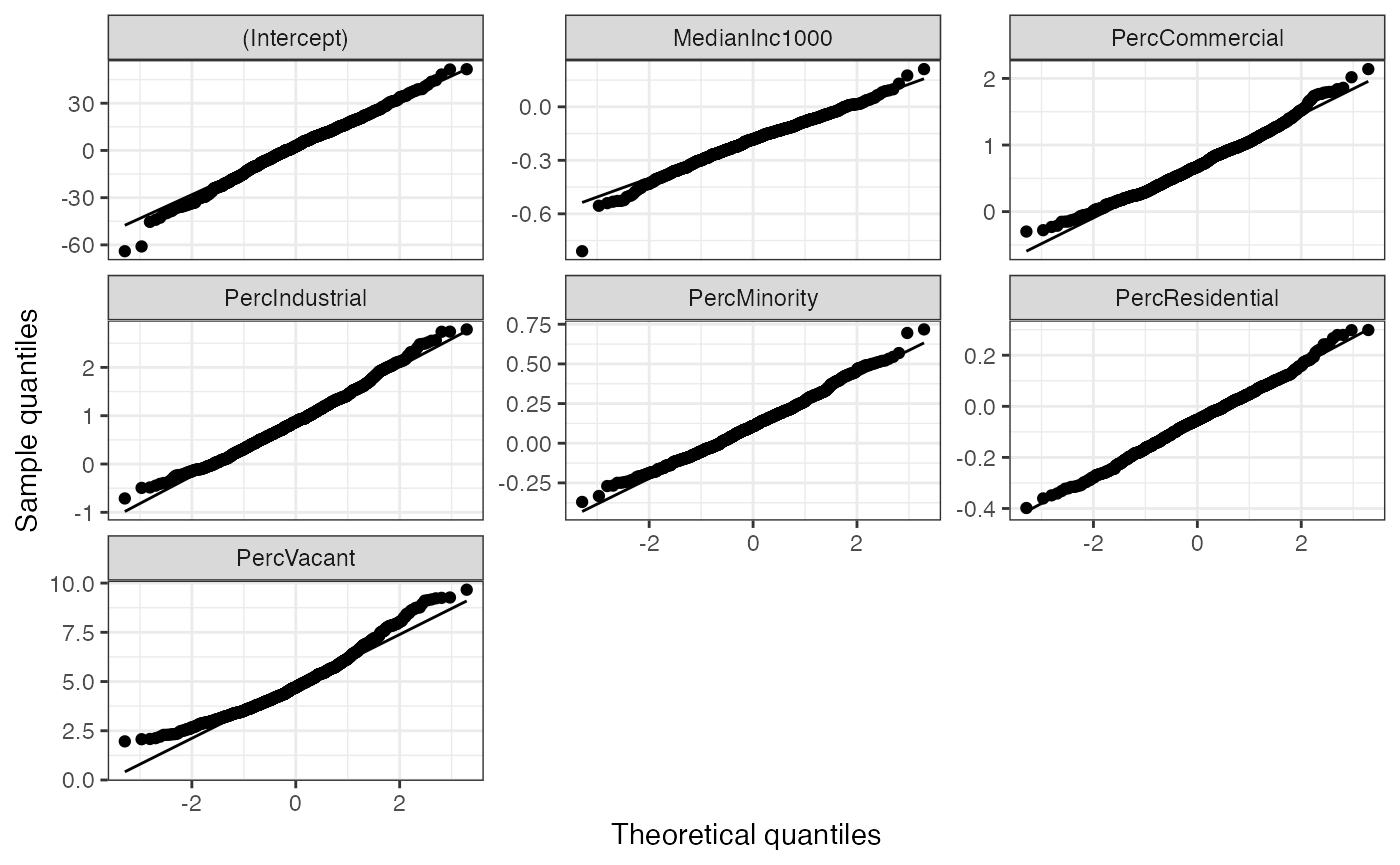
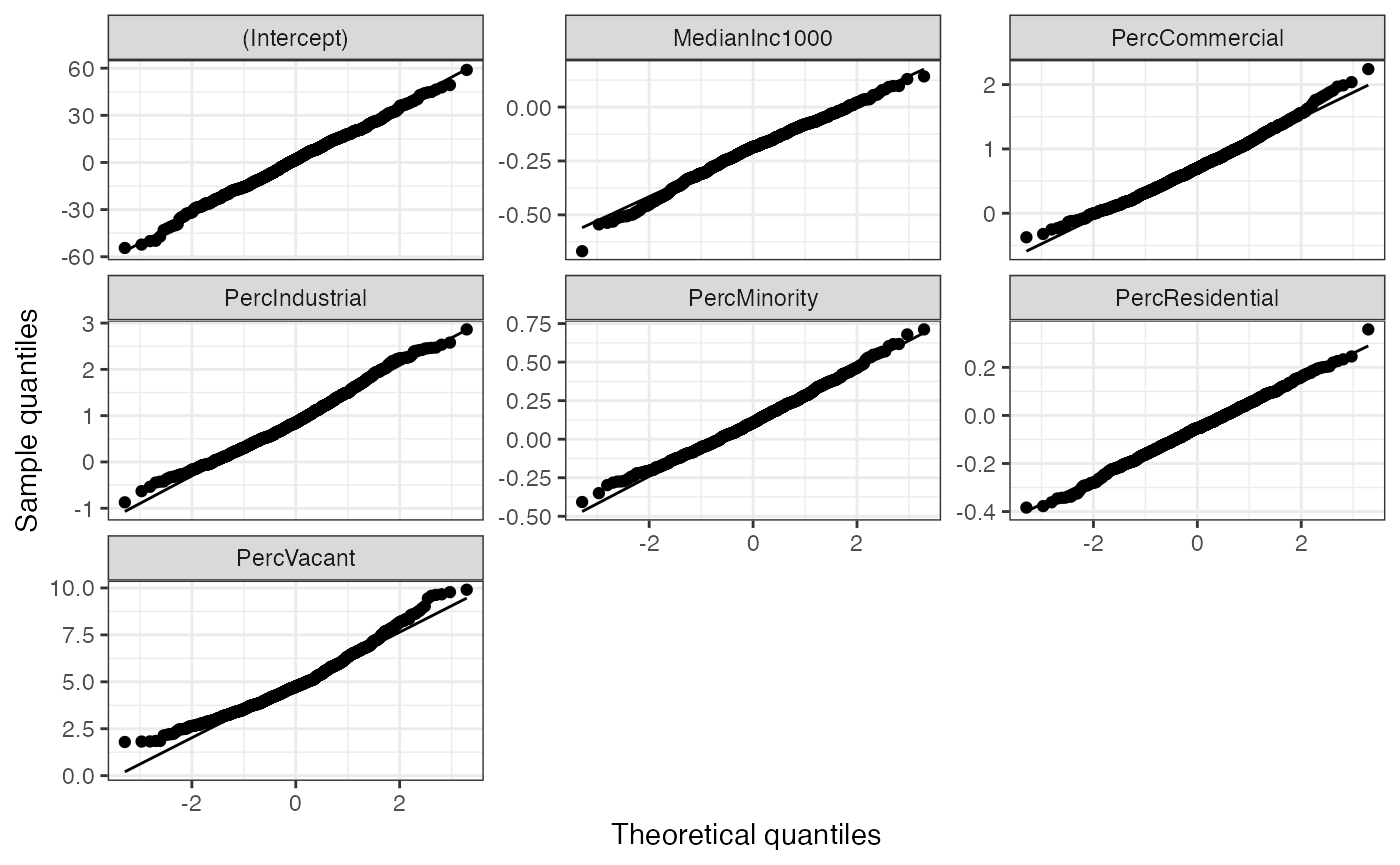
FT: #20 Include ggplot2 in our desc

diff --git a/docs/articles/se-la-county-data.html b/docs/articles/se-la-county-data.html
@@ -452,7 +452,7 @@ Term
 0.76
 </td>
 <td style="text-align:center;">
-16.23
+16.69
 </td>
 <td style="text-align:center;">
 0.05
@@ -472,10 +472,10 @@ MedianInc1000
 0.11
 </td>
 <td style="text-align:center;">
--1.63
+-1.59
 </td>
 <td style="text-align:center;">
-0.90
+0.89
 </td>
 </tr>
 <tr>
@@ -486,13 +486,13 @@ PercCommercial
 0.74
 </td>
 <td style="text-align:center;">
-0.38
+0.40
 </td>
 <td style="text-align:center;">
-1.95
+1.85
 </td>
 <td style="text-align:center;">
-0.95
+0.94
 </td>
 </tr>
 <tr>
@@ -503,13 +503,13 @@ PercIndustrial
 0.91
 </td>
 <td style="text-align:center;">
-0.57
+0.60
 </td>
 <td style="text-align:center;">
-1.58
+1.51
 </td>
 <td style="text-align:center;">
-0.88
+0.86
 </td>
 </tr>
 <tr>
@@ -520,13 +520,13 @@ PercMinority
 0.12
 </td>
 <td style="text-align:center;">
-0.16
+0.17
 </td>
 <td style="text-align:center;">
-0.77
+0.73
 </td>
 <td style="text-align:center;">
-0.55
+0.53
 </td>
 </tr>
 <tr>
@@ -540,10 +540,10 @@ PercResidential
 0.11
 </td>
 <td style="text-align:center;">
--0.46
+-0.47
 </td>
 <td style="text-align:center;">
-0.37
+0.36
 </td>
 </tr>
 <tr>
@@ -554,13 +554,13 @@ PercVacant
 4.63
 </td>
 <td style="text-align:center;">
-1.36
+1.38
 </td>
 <td style="text-align:center;">
-3.40
+3.35
 </td>
 <td style="text-align:center;">
-1.00
+0.99
 </td>
 </tr>
 </tbody>
@@ -573,15 +573,15 @@ PercVacant
   <span class="fu">tidyr</span><span class="fu">::</span><span class="fu"><a href="https://tidyr.tidyverse.org/reference/pivot_wider.html">pivot_wider</a></span><span class="op">(</span>names_from <span class="op">=</span> <span class="va">q</span>, values_from <span class="op">=</span> <span class="va">x</span><span class="op">)</span>
 <span class="co">#&gt; # A tibble: 7 x 3</span>
 <span class="co">#&gt; # Groups:   term [7]</span>
-<span class="co">#&gt;   term             `0.025` `0.975`</span>
-<span class="co">#&gt;   &lt;chr&gt;              &lt;dbl&gt;   &lt;dbl&gt;</span>
-<span class="co">#&gt; 1 (Intercept)     -33.1    32.0   </span>
-<span class="co">#&gt; 2 MedianInc1000    -0.423   0.0135</span>
-<span class="co">#&gt; 3 PercCommercial    0.0323  1.50  </span>
-<span class="co">#&gt; 4 PercIndustrial   -0.128   2.10  </span>
-<span class="co">#&gt; 5 PercMinority     -0.183   0.445 </span>
-<span class="co">#&gt; 6 PercResidential  -0.270   0.156 </span>
-<span class="co">#&gt; 7 PercVacant        2.69    7.93</span></code></pre></div>
+<span class="co">#&gt;   term              `0.025` `0.975`</span>
+<span class="co">#&gt;   &lt;chr&gt;               &lt;dbl&gt;   &lt;dbl&gt;</span>
+<span class="co">#&gt; 1 (Intercept)     -29.6     33.9   </span>
+<span class="co">#&gt; 2 MedianInc1000    -0.441    0.0156</span>
+<span class="co">#&gt; 3 PercCommercial    0.00147  1.54  </span>
+<span class="co">#&gt; 4 PercIndustrial   -0.153    2.22  </span>
+<span class="co">#&gt; 5 PercMinority     -0.200    0.458 </span>
+<span class="co">#&gt; 6 PercResidential  -0.277    0.155 </span>
+<span class="co">#&gt; 7 PercVacant        2.65     8.06</span></code></pre></div>
 </div>
 <div id="computing-standard-errors-from-ols-using-multiplier-bootstrap" class="section level2">
 <h2 class="hasAnchor">
@@ -740,7 +740,7 @@ Term
 0.96
 </td>
 <td style="text-align:center;">
-16.23
+16.69
 </td>
 <td style="text-align:center;">
 0.05
@@ -778,10 +778,10 @@ MedianInc1000
 0.11
 </td>
 <td style="text-align:center;">
--1.63
+-1.59
 </td>
 <td style="text-align:center;">
-0.90
+0.89
 </td>
 </tr>
 <tr>
@@ -810,13 +810,13 @@ PercVacant
 0.00
 </td>
 <td style="text-align:center;">
-1.36
+1.38
 </td>
 <td style="text-align:center;">
-3.40
+3.35
 </td>
 <td style="text-align:center;">
-1.00
+0.99
 </td>
 </tr>
 <tr>
@@ -845,13 +845,13 @@ PercMinority
 0.45
 </td>
 <td style="text-align:center;">
-0.16
+0.17
 </td>
 <td style="text-align:center;">
-0.77
+0.73
 </td>
 <td style="text-align:center;">
-0.55
+0.53
 </td>
 </tr>
 <tr>
@@ -883,10 +883,10 @@ PercResidential
 0.11
 </td>
 <td style="text-align:center;">
--0.46
+-0.47
 </td>
 <td style="text-align:center;">
-0.37
+0.36
 </td>
 </tr>
 <tr>
@@ -915,13 +915,13 @@ PercCommercial
 0.06
 </td>
 <td style="text-align:center;">
-0.38
+0.40
 </td>
 <td style="text-align:center;">
-1.95
+1.85
 </td>
 <td style="text-align:center;">
-0.95
+0.94
 </td>
 </tr>
 <tr>
@@ -950,13 +950,13 @@ PercIndustrial
 0.12
 </td>
 <td style="text-align:center;">
-0.57
+0.60
 </td>
 <td style="text-align:center;">
-1.58
+1.51
 </td>
 <td style="text-align:center;">
-0.88
+0.86
 </td>
 </tr>
 </tbody>

diff --git a/vignettes/figures/output/r05_se_comb.tex b/vignettes/figures/output/r05_se_comb.tex
@@ -1,18 +1,18 @@
 % latex table generated in R 4.0.2 by xtable 1.8-4 package
-% Mon Dec 14 23:12:58 2020
+% Mon Dec 14 23:34:49 2020
 \begin{table}[ht]
 \centering
 \begin{tabular}{lrrrrrrrr}
   \hline
 Term & $\widehat{\beta}_{j}$ & $SE_{\text{lin}}$ & $SE_{\text{sand}}$ & $t_{\text{sand}}$ & $p_{\text{sand}}$ & $SE_{\text{boot}}$ & $t_{\text{boot}}$ & $p_{\text{boot}}$ \\ 
   \hline
-(Intercept) & 0.76 & 22.77 & 15.91 & 0.05 & 0.96 & 16.23 & 0.05 & 0.04 \\ 
-  MedianInc1000 & -0.18 & 0.19 & 0.10 & -1.75 & 0.08 & 0.11 & -1.63 & 0.90 \\ 
-  PercVacant & 4.63 & 0.90 & 1.29 & 3.60 & 0.00 & 1.36 & 3.40 & 1.00 \\ 
-  PercMinority & 0.12 & 0.18 & 0.16 & 0.76 & 0.45 & 0.16 & 0.77 & 0.55 \\ 
-  PercResidential & -0.05 & 0.17 & 0.11 & -0.46 & 0.64 & 0.11 & -0.46 & 0.37 \\ 
-  PercCommercial & 0.74 & 0.27 & 0.39 & 1.90 & 0.06 & 0.38 & 1.95 & 0.95 \\ 
-  PercIndustrial & 0.91 & 0.32 & 0.58 & 1.56 & 0.12 & 0.57 & 1.58 & 0.88 \\ 
+(Intercept) & 0.76 & 22.77 & 15.91 & 0.05 & 0.96 & 16.69 & 0.05 & 0.04 \\ 
+  MedianInc1000 & -0.18 & 0.19 & 0.10 & -1.75 & 0.08 & 0.11 & -1.59 & 0.89 \\ 
+  PercVacant & 4.63 & 0.90 & 1.29 & 3.60 & 0.00 & 1.38 & 3.35 & 0.99 \\ 
+  PercMinority & 0.12 & 0.18 & 0.16 & 0.76 & 0.45 & 0.17 & 0.73 & 0.53 \\ 
+  PercResidential & -0.05 & 0.17 & 0.11 & -0.46 & 0.64 & 0.11 & -0.47 & 0.36 \\ 
+  PercCommercial & 0.74 & 0.27 & 0.39 & 1.90 & 0.06 & 0.40 & 1.85 & 0.94 \\ 
+  PercIndustrial & 0.91 & 0.32 & 0.58 & 1.56 & 0.12 & 0.60 & 1.51 & 0.86 \\ 
    \hline
 \end{tabular}
 \caption{Summary - Sandwich Estimator and Empirical Bootstrap} 

diff --git a/vignettes/figures/output/r02b_se_emp.tex b/vignettes/figures/output/r02b_se_emp.tex
@@ -1,18 +1,18 @@
 % latex table generated in R 4.0.2 by xtable 1.8-4 package
-% Mon Dec 14 23:12:54 2020
+% Mon Dec 14 23:34:45 2020
 \begin{table}[ht]
 \centering
 \begin{tabular}{lrrrr}
   \hline
 Term & $\widehat{\beta}_{j}$ & $SE_{\text{boot}}$ & $t_{\text{boot}}$ & $p_{\text{boot}}$ \\ 
   \hline
-(Intercept) & 0.76 & 16.23 & 0.05 & 0.04 \\ 
-  MedianInc1000 & -0.18 & 0.11 & -1.63 & 0.90 \\ 
-  PercCommercial & 0.74 & 0.38 & 1.95 & 0.95 \\ 
-  PercIndustrial & 0.91 & 0.57 & 1.58 & 0.88 \\ 
-  PercMinority & 0.12 & 0.16 & 0.77 & 0.55 \\ 
-  PercResidential & -0.05 & 0.11 & -0.46 & 0.37 \\ 
-  PercVacant & 4.63 & 1.36 & 3.40 & 1.00 \\ 
+(Intercept) & 0.76 & 16.69 & 0.05 & 0.04 \\ 
+  MedianInc1000 & -0.18 & 0.11 & -1.59 & 0.89 \\ 
+  PercCommercial & 0.74 & 0.40 & 1.85 & 0.94 \\ 
+  PercIndustrial & 0.91 & 0.60 & 1.51 & 0.86 \\ 
+  PercMinority & 0.12 & 0.17 & 0.73 & 0.53 \\ 
+  PercResidential & -0.05 & 0.11 & -0.47 & 0.36 \\ 
+  PercVacant & 4.63 & 1.38 & 3.35 & 0.99 \\ 
    \hline
 \end{tabular}
 \caption{Empirical Bootstrap Standard Errors} 

diff --git a/vignettes/figures/output/r01_se_sand.tex b/vignettes/figures/output/r01_se_sand.tex
@@ -1,5 +1,5 @@
 % latex table generated in R 4.0.2 by xtable 1.8-4 package
-% Mon Dec 14 23:12:56 2020
+% Mon Dec 14 23:34:47 2020
 \begin{table}[ht]
 \centering
 \begin{tabular}{lrrrrr}
